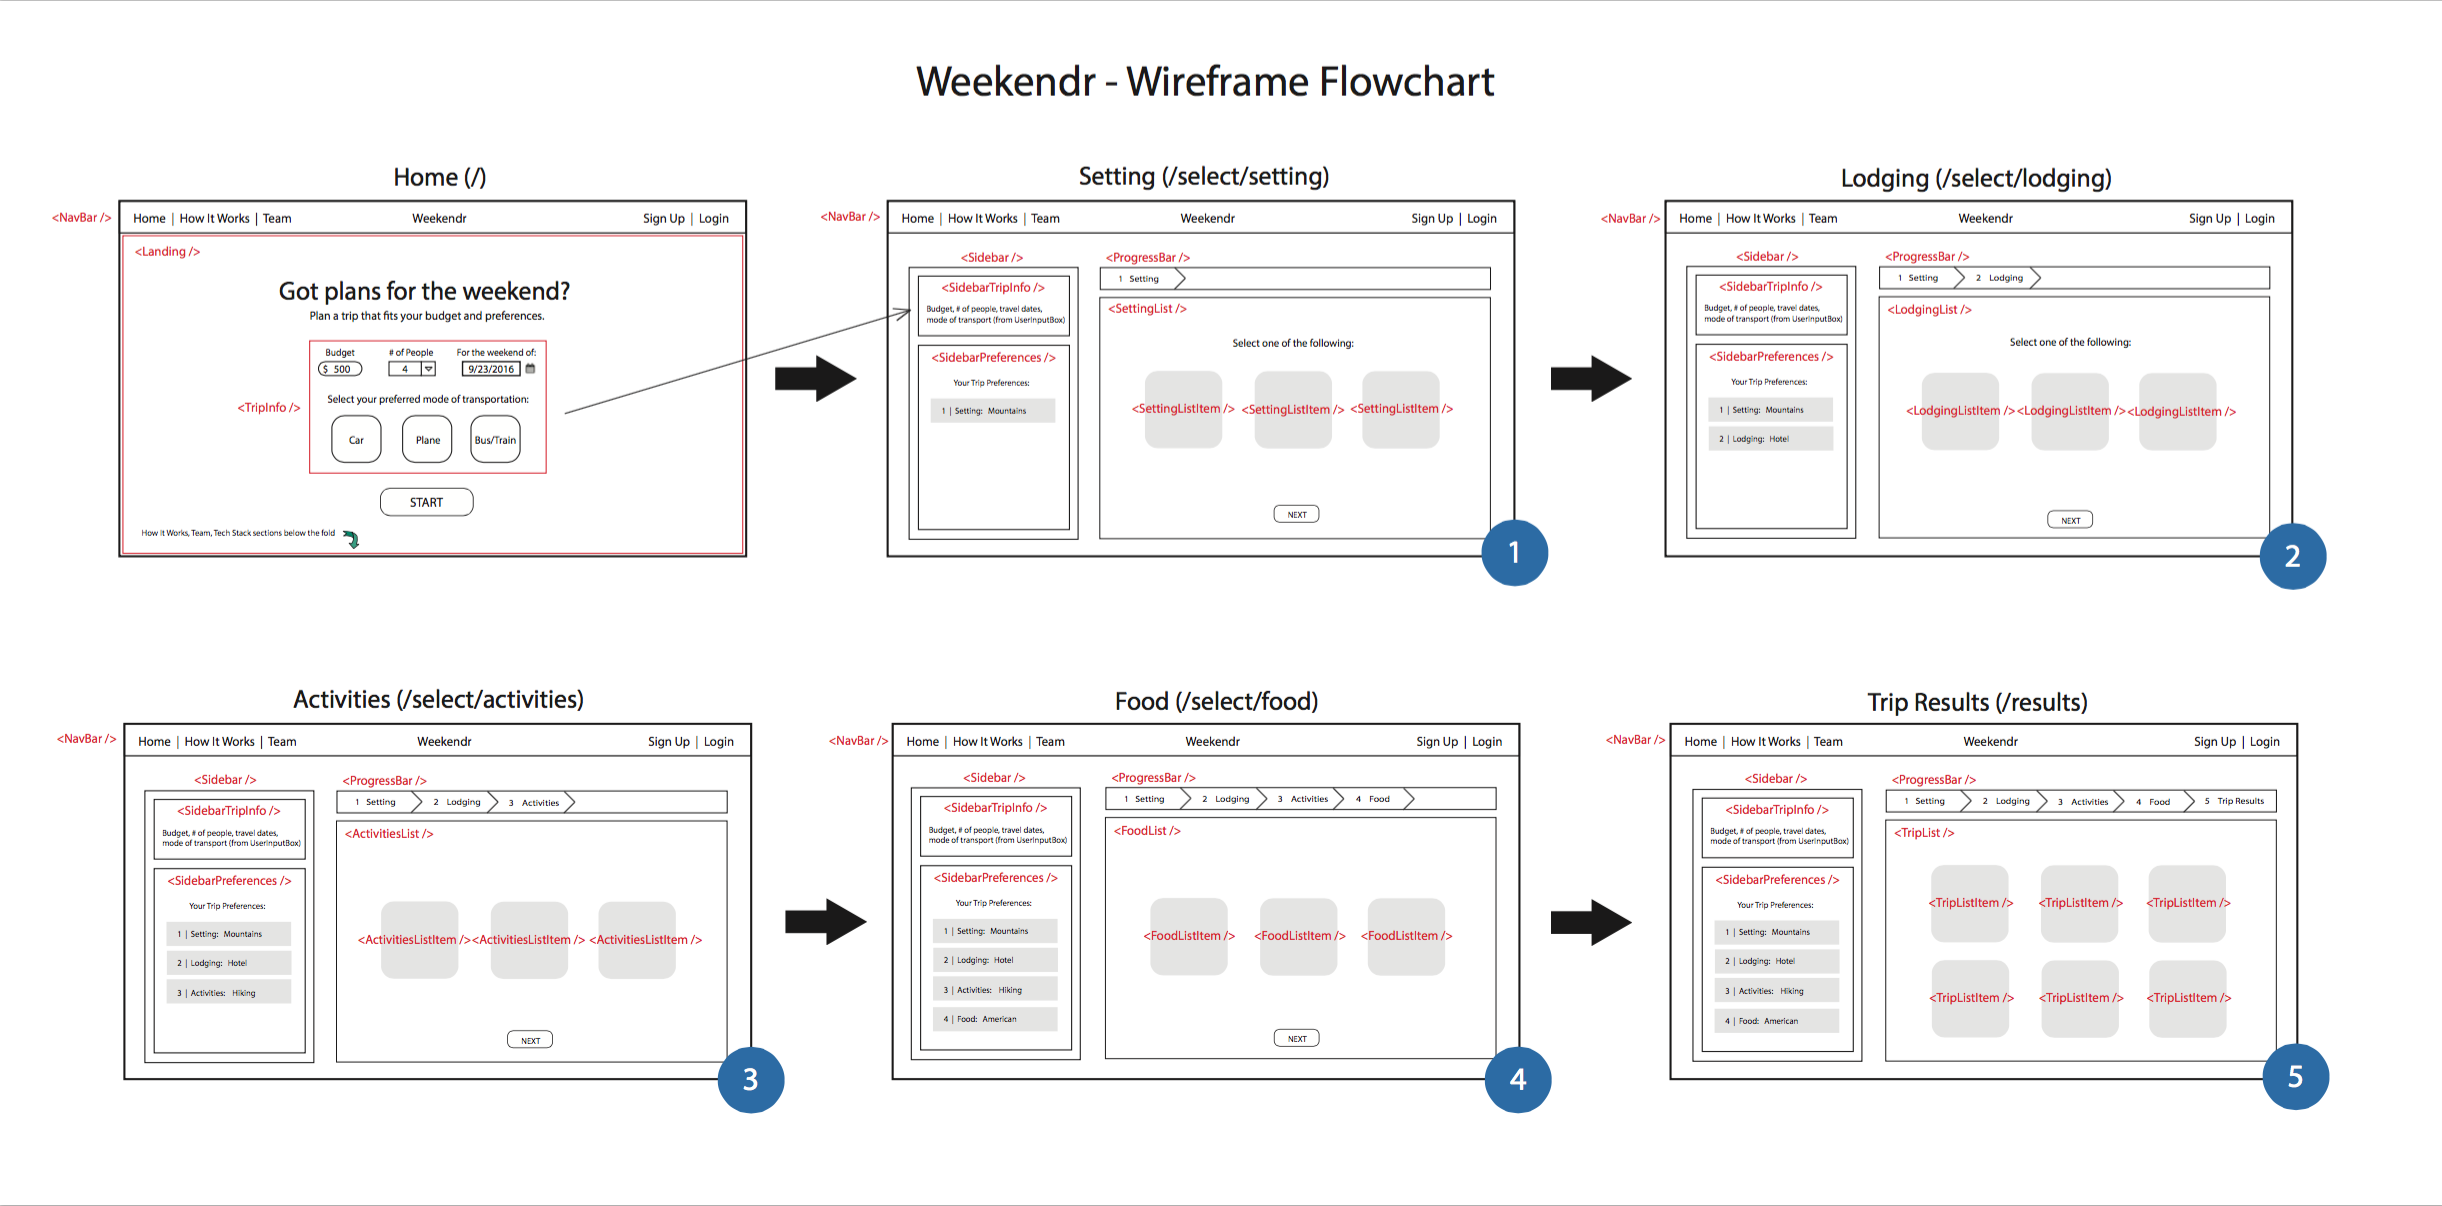
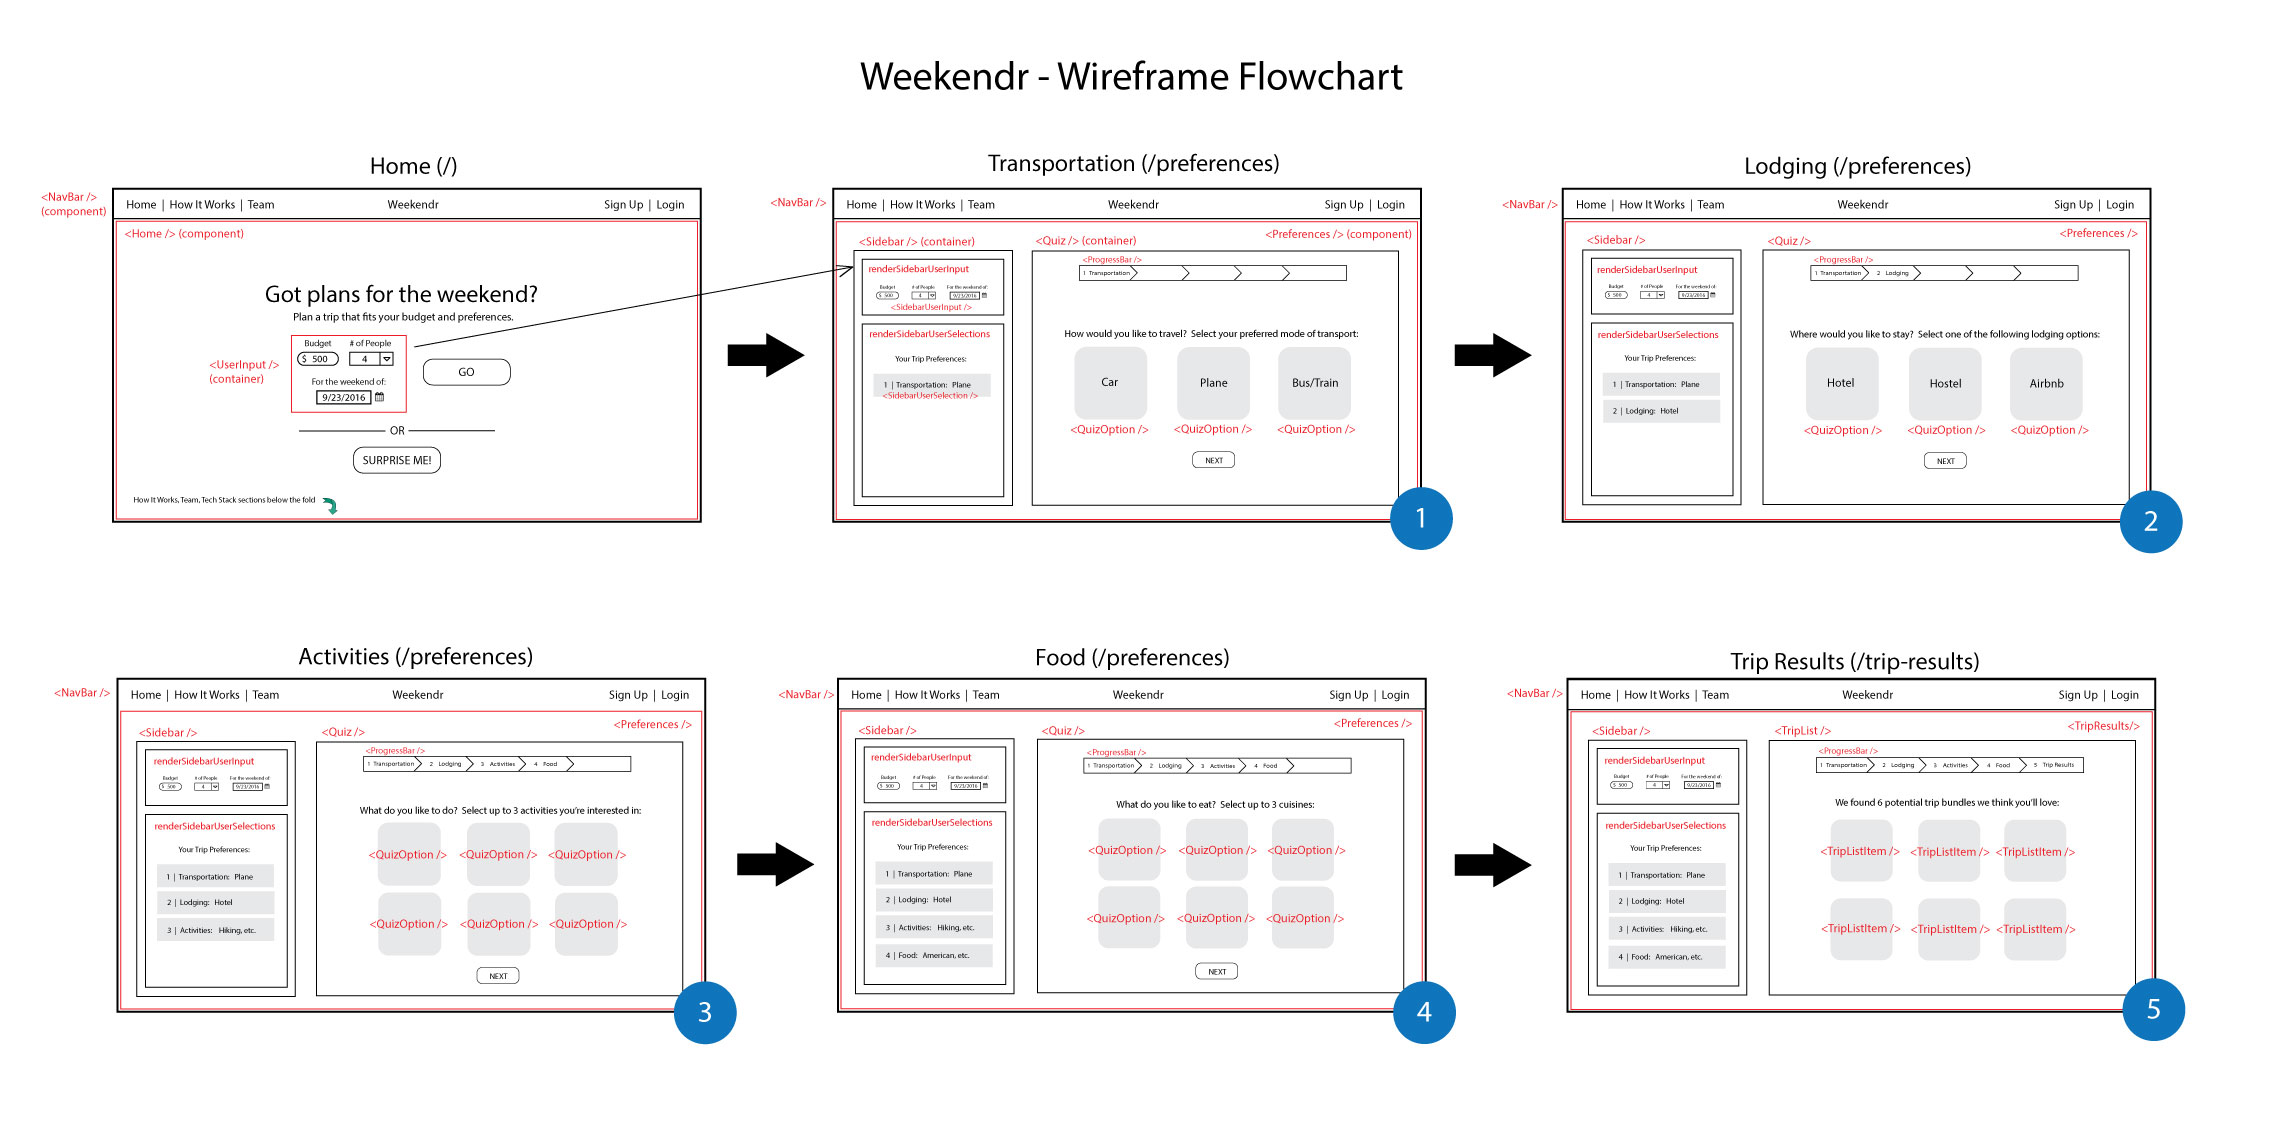
adds updated wireframe flowchart to GitHub readme

diff --git a/README.md b/README.md
@@ -1,4 +1,4 @@
 # Weekendr
-Application to curate travel iteneraries
+A web application that curates travel bundles based on budget and preferences
 
-![alt text](https://github.com/Weekendr/Weekendr/blob/dev/client/assets/images/weekendr_wireframe.jpg "Logo Title Text 1")
+![alt text](https://github.com/Weekendr/Weekendr/blob/dev/client/assets/images/weekendr_wireframe.jpg)
